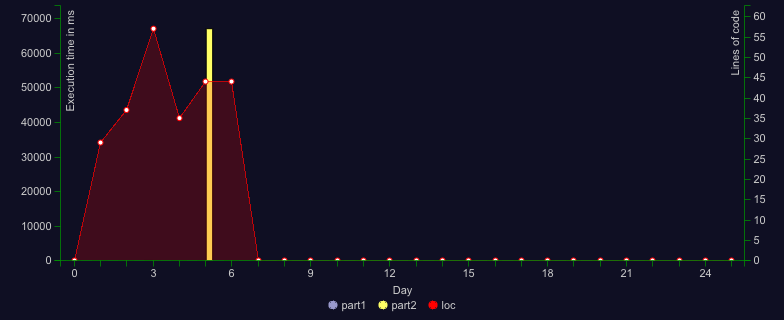
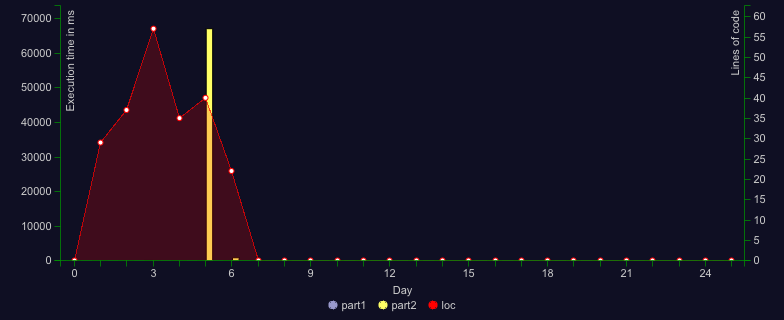
day 6: more like day 1

Changed region(s): [[0.2143, 0.25, 0.3367, 0.7812]]

diff --git a/day-06/index.ts b/day-06/index.ts
@@ -1,0 +1,22 @@
+import { Examples, Solution } from '~types'
+import { join, map, match, pipe, product, range, split, transpose } from 'ramda'
+
+export const parse = pipe(split('\n'), map(match(/\d+/g)))
+
+const solve = ([t, d]: number[]) => range(0, t + 1).filter((n) => n * (t - n) > d).length
+export const p1: Solution<typeof parse> = pipe(map(map(Number)), transpose, map(solve), product)
+export const p2: Solution<typeof parse> = pipe(map(join('')), map(Number), solve)
+
+export const p1ex: Examples = [
+  {
+    expected: 288,
+    input: `
+      Time:      7  15   30
+      Distance:  9  40  200
+    `,
+  },
+]
+
+export const p2ex: Examples = [{ expected: 71503, input: p1ex[0].input }]
+
+export const onlyEx = true

diff --git a/README.md b/README.md
@@ -16,7 +16,7 @@
 [![Day](https://badgen.net/badge/03/%E2%98%85%E2%98%85/green)](day-03/index.ts)
 [![Day](https://badgen.net/badge/04/%E2%98%85%E2%98%85/green)](day-04/index.ts)
 [![Day](https://badgen.net/badge/05/%E2%98%85%E2%98%85/green)](day-05/index.ts)
-![Day](https://badgen.net/badge/06/%E2%98%86%E2%98%86/gray)
+[![Day](https://badgen.net/badge/06/%E2%98%85%E2%98%85/green)](day-06/index.ts)
 ![Day](https://badgen.net/badge/07/%E2%98%86%E2%98%86/gray)
 ![Day](https://badgen.net/badge/08/%E2%98%86%E2%98%86/gray)
 ![Day](https://badgen.net/badge/09/%E2%98%86%E2%98%86/gray)
@@ -82,9 +82,9 @@ Both parts: 66970.61 ms
 
 ```
 Day 06
-Time part 1: -
-Time part 2: -
-Both parts: -
+Time part 1: 88.87 µs
+Time part 2: 787.54 ms
+Both parts: 787.63 ms
 ```
 
 ```
@@ -221,8 +221,8 @@ Both parts: -
 ```
 
 ```
-Total stars: 10/50
-Total time: 66995.96 ms
+Total stars: 12/50
+Total time: 67783.59 ms
 ```
 
 <!--/RESULTS-->
